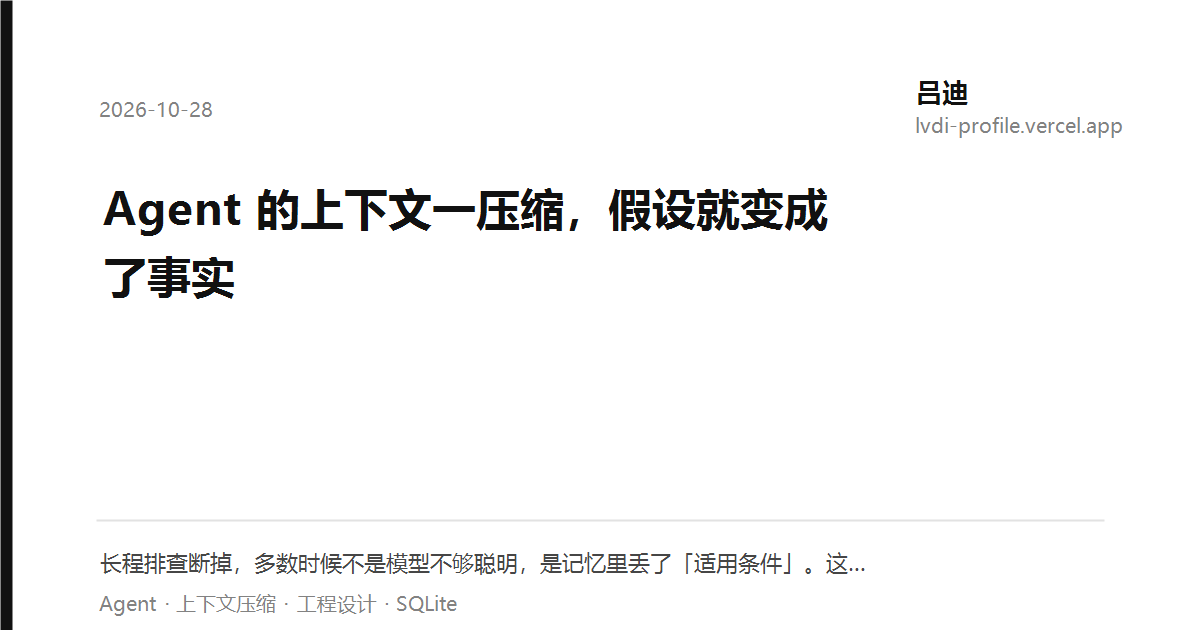
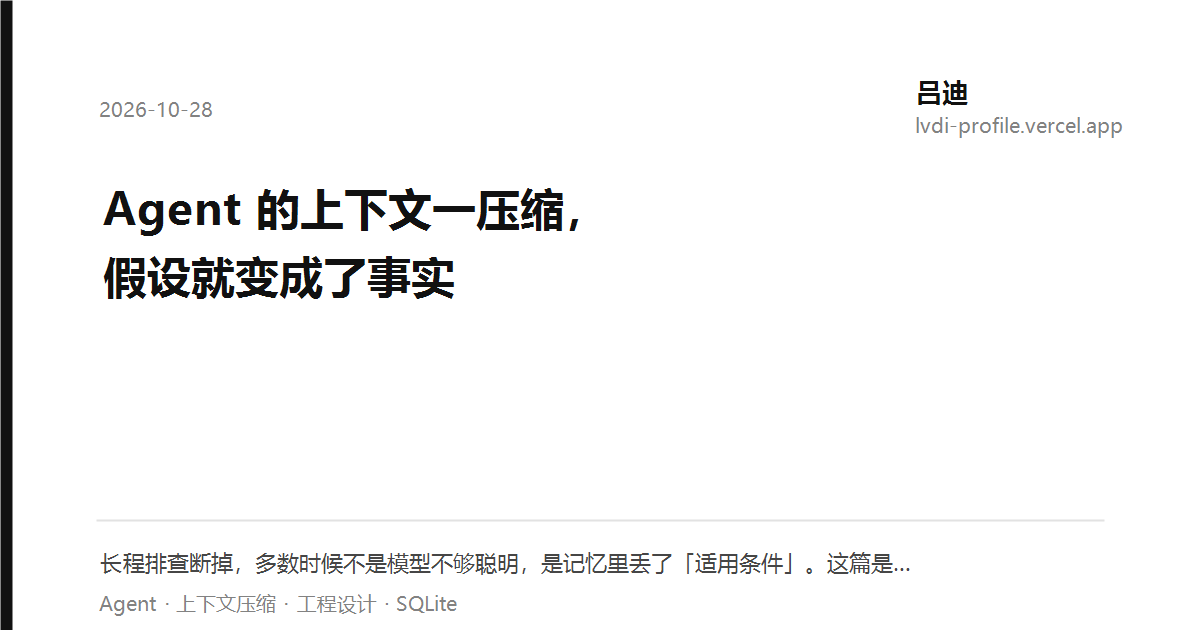
og 封面：标题优先在标点处断行，摘要截断不切英文单词

diff --git a/tools/gen_og.py b/tools/gen_og.py
@@ -39,6 +39,20 @@ def parse_front_matter(raw):
     return meta
 
 
+def brief(text, limit=40):
+    """摘要压到一行：截断时不切断英文单词，末尾补省略号。"""
+    text = (text or "").strip()
+    if len(text) <= limit:
+        return text
+    cut = text[:limit]
+    # 如果切在英文单词中间，退回到上一个空白
+    if re.search(r"[A-Za-z]", text[limit - 1:limit + 1] or ""):
+        sp = cut.rfind(" ")
+        if sp > limit * 0.6:
+            cut = cut[:sp]
+    return cut.rstrip(" ,，、·") + "…"
+
+
 def collect(force):
     jobs = []
     posts_dir = os.path.join(ROOT, "content", "posts")
@@ -55,7 +69,7 @@ def collect(force):
         jobs.append({
             "title": meta.get("title", slug),
             "kicker": meta.get("date", ""),
-            "foot": meta.get("summary", "")[:34] + ("…" if len(meta.get("summary", "")) > 34 else ""),
+            "foot": brief(meta.get("summary", "")),
             "tags": tags,
             "brand": BRAND,
             "domain": DOMAIN,
